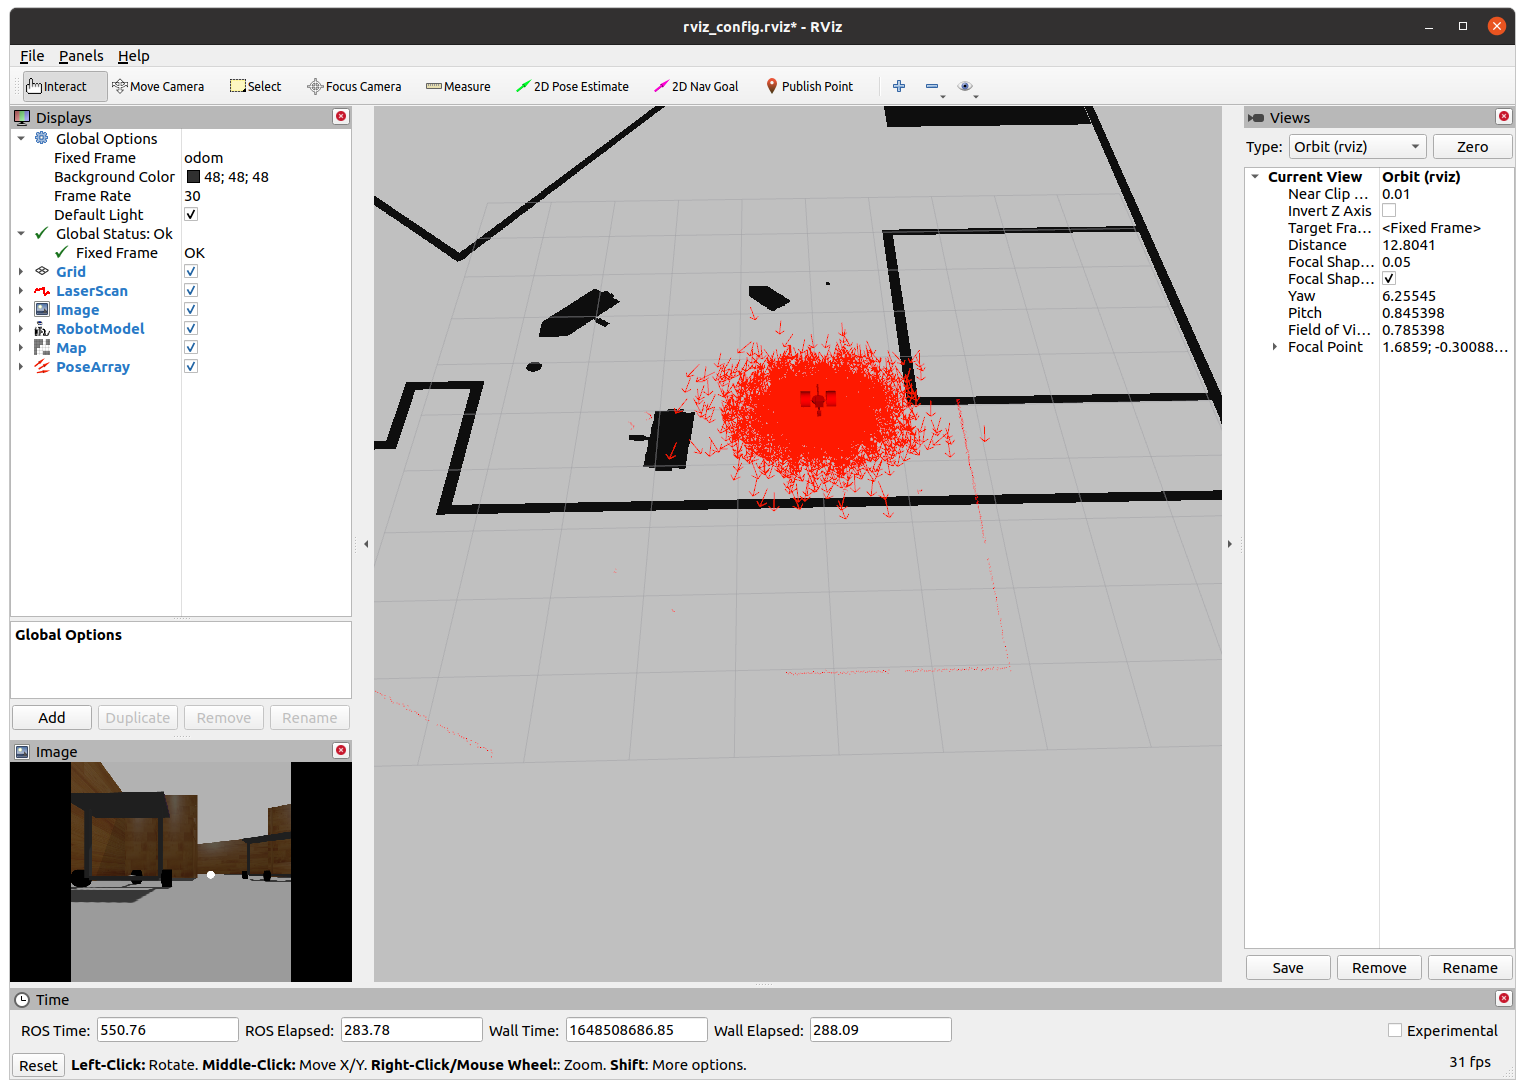
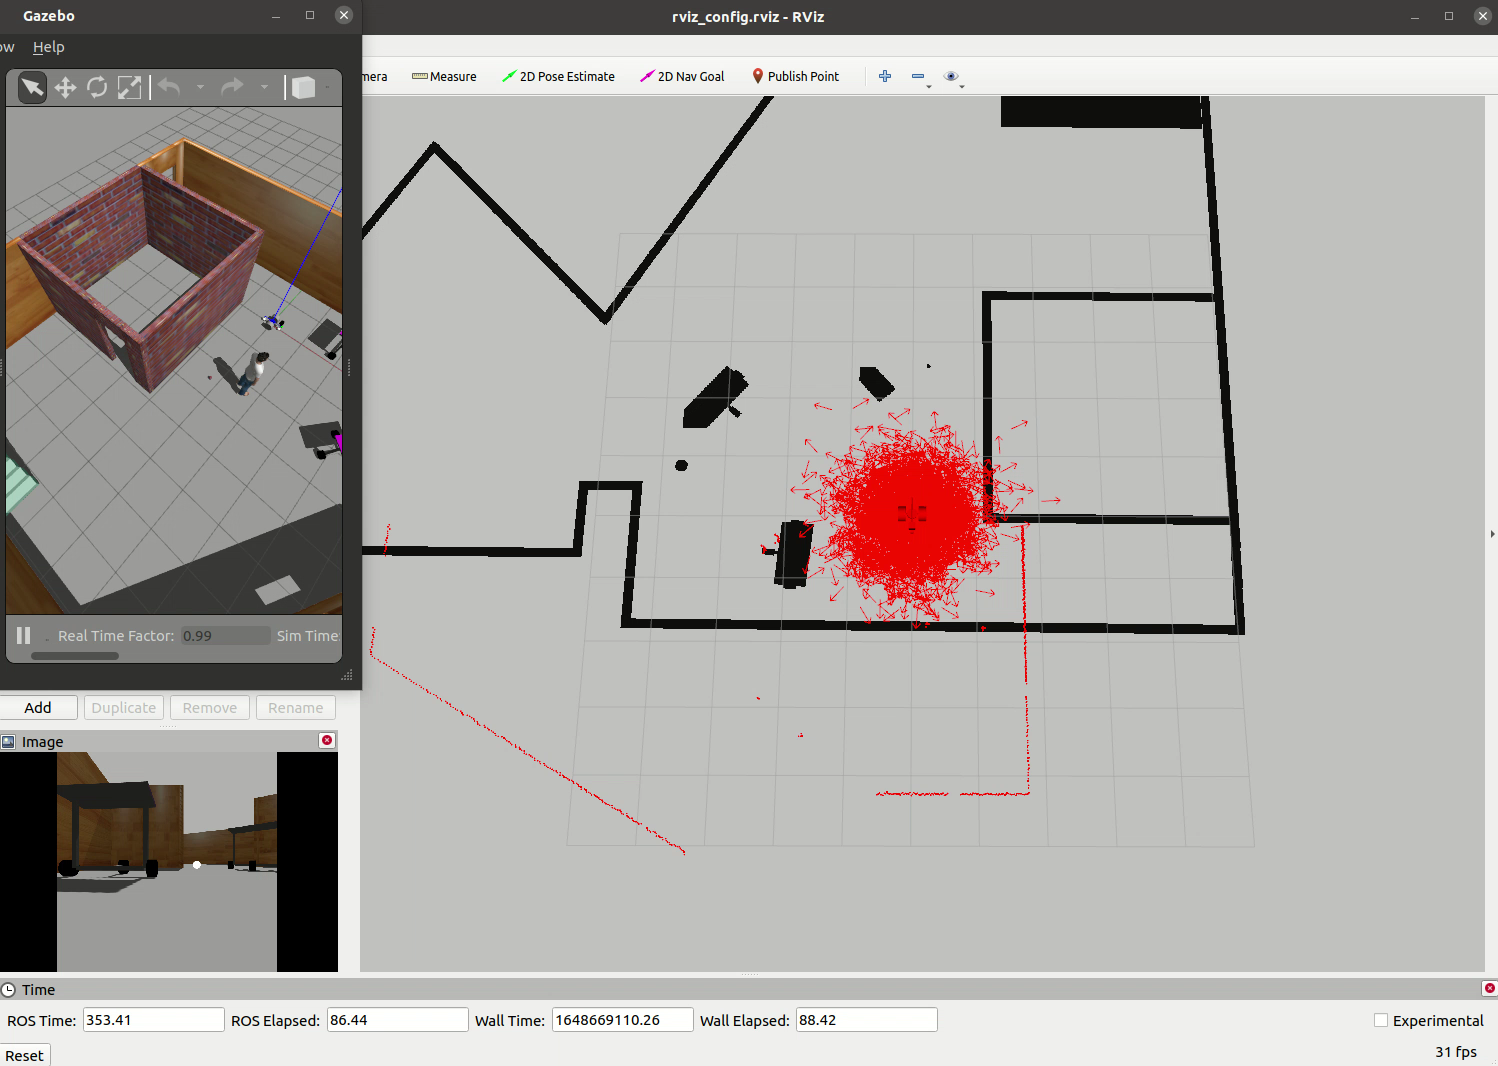
P3 Fix initial estimate rotation params for amcl

diff --git a/project3_rosLocalization/readme.md b/project3_rosLocalization/readme.md
@@ -97,7 +97,20 @@ Moving around:
 
 ---
 
-Localization at start, with wrong initial rotation estimation:
+Localization at start, with wrong initial rotation estimation. Note that for this project we provide a bad rotation estimate (90 degree offset), and instead provide a high initial rotation covariance, to allow AMCL to localize from the inaccurate estimate.
+
+From [amcl.launch](./catkin_ws/src/my_robot/launch/amcl.launch):
+```
+        <!-- For rotation, instead of providing an accurate estimate, we provide a wide
+            initial covariance. The robot actual pose has a 90deg (1.57rad) offset wrt,
+            so we initialize AMCL with a covariance that can cover that offset.
+
+            This would be an accurate rotation estimate:
+            <param name="initial_pose_a" value="-1.57"/> 
+        -->
+        <!-- Set covariance slightly larger than 1.57^2 -->
+        <param name="initial_cov_aa" value="2.5"/>
+```
 
 <p align="center"><img border=1 src="doc/03_rviz_localization.png"></p>
 
